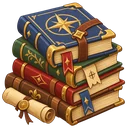
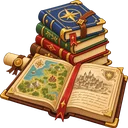
ui(infopanel): neues Literatur-Symbol
Owner hat literatur.png im Pipeline-Repo erneuert (13.08., 16:22). Umgewandelt
aufs Hausmass wie beim ersten Mal: 1254x1254 / 2,26 MB -> 128x128 RGBA WebP,
8.876 Bytes.

💣 ?v=2 an beiden Fundstellen, und das ist hier kein Schoenheitsfehler, sondern
noetig: der Dateiname bleibt gleich, der Inhalt aendert sich -- jeder Browser,
der das Symbol schon einmal geladen hat, zeigte weiter das alte. Die
Stempel-Automatik erreicht diese Stelle nicht (sie laeuft index.html und
html/*.html samt CSS-Kette ab, nicht Strings in JS-Dateien), deshalb steht die
Version wie bei brief.webp?v=1 und linkteilen.webp?v=2 von Hand da -- die
dokumentierte Ausnahme aus AGENTS.md §7.

⚠ kartensammlung.webp bekommt KEINE Version: sein Inhalt ist unveraendert, eine
Version daran waere ein Cache-Bruch ohne Anlass.

diff --git a/js/map-features/map-features-place-extras.js b/js/map-features/map-features-place-extras.js
@@ -931,7 +931,7 @@ function buildGameLiteratureSectionMarkup(placeName, beginnt, play, covers, opts
 	var listMarkup = '<div class="avesmaps-adv__list">' + cards + '</div>';
 
 	var alleMarkup = (hasBeginnt || hasPlay || hasCovers) ? '<div class="avesmaps-adv__actions location-popup__actions"><button type="button" class="location-popup__action-button avesmaps-adv__all">'
-		+ '<img class="location-popup__action-img" src="img/menu/literatur.webp" alt="" width="20" height="20" />'
+		+ '<img class="location-popup__action-img" src="img/menu/literatur.webp?v=2" alt="" width="20" height="20" />'
 		+ placeExtrasEscape(tr("gameLiterature.all", "Literatur anzeigen")) + '</button></div>' : "";
 
 	var creditMarkup = avesmapsGameLiteratureCreditMarkup();
@@ -1082,7 +1082,7 @@ function buildFloatingGameLiteratureButtonMarkup(location, publicId) {
 	}
 	return popupActionButtonMarkup({
 		label: tr("gameLiterature.label", "Literatur"),
-		iconMarkup: '<img class="location-popup__action-img" src="img/menu/literatur.webp" alt="" width="20" height="20" />',
+		iconMarkup: '<img class="location-popup__action-img" src="img/menu/literatur.webp?v=2" alt="" width="20" height="20" />',
 		attributes: attributes,
 	});
 }
